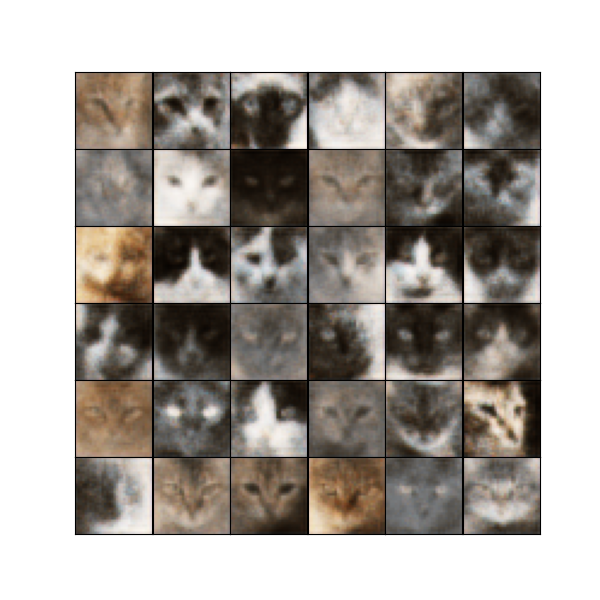
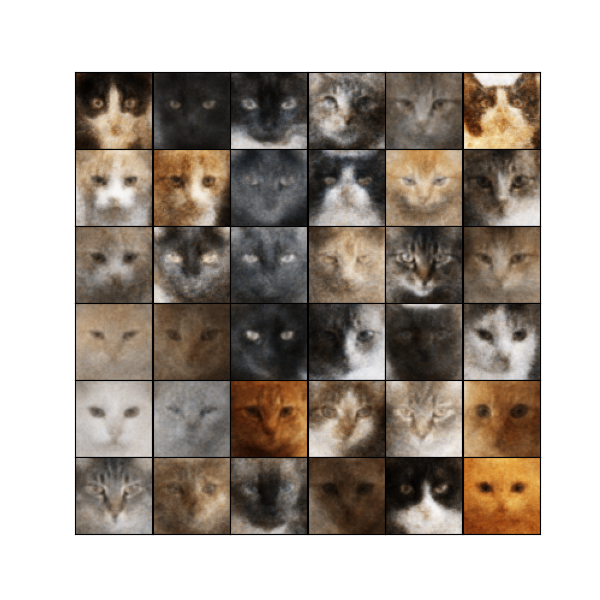
Last results

diff --git a/src/config.py b/src/config.py
@@ -1,9 +1,9 @@
 from torchvision import transforms as tt
 
-WANDB_LOGIN = True
+WANDB_LOGIN = False
 
 # dataset preprocessing configs
-LOAD_IN_MEMORY = True
+LOAD_IN_MEMORY = False
 DATASET_PATH = "./cats/cats"
 DEVICE = 'cuda'
 TRANSFORM = tt.Compose([
@@ -16,11 +16,11 @@ TRAIN_PORTION = 8192  # either float as portion or integer as number of objects
 VALIDATION_PORTION = 2048  # either float as portion or integer as number of objects
 BATCH_SIZE = 16
 ADD_NOISE = True
-N_POPULATION = 64
+N_POPULATION = 32
 P_CHILDREN = 0.5
 EPOCHS_GA = 10
-ATTEMPTS_INDIVIDUAL = 2
-EPOCHS_INDIVIDUAL = 2
+ATTEMPTS_INDIVIDUAL = 1
+EPOCHS_INDIVIDUAL = 5
 
 EPOCHS_BEST = 100
 
